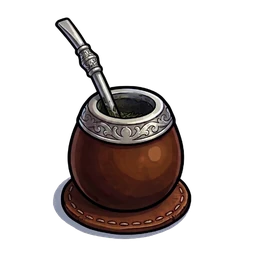
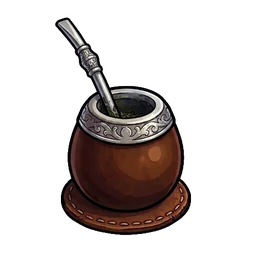
Pase 753: mate de Pampa y Patria afinado en la web y sin sombra clara

diff --git a/src/constants/packsMesa.js b/src/constants/packsMesa.js
@@ -20,18 +20,26 @@ export const PACKS = {
   'la-pulperia': {
     id: 'la-pulperia', nombre: 'La Pulpería',
     adorno: { nombre: 'Picada', tipo: 'ciclo', estados: 4, brillo: false, sonido: null },
-    anclas: { uno: { der: [718, 504], izq: [120, 506] }, dos: { der: [670, 648], izq: [135, 648] }, tres: { der: [655, 680], izq: [150, 680] } },
+    anclas: { uno: { der: [718, 514], izq: [120, 516] }, dos: { der: [670, 658], izq: [135, 658] }, tres: { der: [655, 680], izq: [150, 680] } },
+    // Pase 752: escritorio por modo (uno = 1v1, dos = 2v2, tres = 3v3): fracciones de la mesa visible; lo que falte usa POS_ADORNO
+    escritorio: { tres: { der: [0.82, 0.48], izq: [0.18, 0.48] } },
   },
   'noche-camperal': {
     id: 'noche-camperal', nombre: 'Noche Camperal',
     adorno: { nombre: 'Farol', tipo: 'alternar', estados: 2, brillo: true, sonido: null },
-    anclas: { uno: { der: [733, 464], izq: [105, 465] }, dos: { der: [672, 646], izq: [126, 646] }, tres: { der: [657, 678], izq: [141, 678] } },
+    anclas: { uno: { der: [733, 464], izq: [105, 465] }, dos: { der: [672, 636], izq: [126, 636] }, tres: { der: [642, 693], izq: [156, 693] } },
+    escritorio: {
+      uno: { tam: 0.18, der: [0.83, 0.425], izq: [0.17, 0.425] },
+      dos: { der: [0.815, 0.425], izq: [0.185, 0.425] },
+      tres: { der: [0.82, 0.42], izq: [0.18, 0.42] },
+    },
     dorso: 'pack-noche-camperal',   // Pase 751: carpeta public/assets/personalizacion-opt/cartas/<dorso>/ (abanicos)
   },
   'pampa-y-patria': {
     id: 'pampa-y-patria', nombre: 'Pampa y Patria',
     adorno: { nombre: 'Mate', tipo: 'ciclo', estados: 3, brillo: false, sonido: 'sorbo-mate.mp3' },
-    anclas: { uno: { der: [711, 470], izq: [129, 469] }, dos: { der: [695, 643], izq: [119, 643] }, tres: { der: [680, 675], izq: [134, 675] } },
+    anclas: { uno: { der: [711, 470], izq: [129, 469] }, dos: { der: [695, 643], izq: [119, 643] }, tres: { der: [668, 663], izq: [146, 663] } },
+    escritorio: { uno: { der: [0.83, 0.42], izq: [0.17, 0.42] }, dos: { der: [0.83, 0.435], izq: [0.17, 0.435] } },
     dorso: 'pack-pampa-y-patria',
   },
 };
